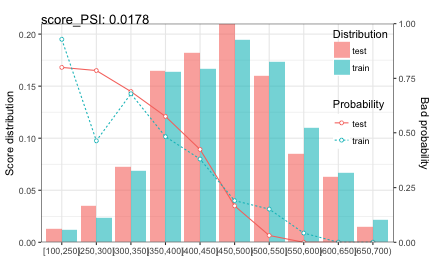
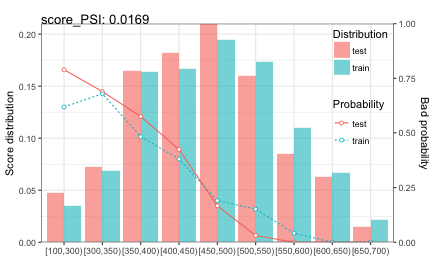
slide_sc

diff --git a/slide/20171115scorecard/index.html b/slide/20171115scorecard/index.html
@@ -1052,7 +1052,7 @@ psi &lt;- perf_psi(
   label = list(
     train=train[,"creditability"], 
     test =test[,"creditability"]),
-  x_limits = c(200, 750),
+  x_limits = c(250, 750),
   x_tick_break = 50)
 
 psi$psi
@@ -1060,7 +1060,7 @@ psi$psi
 
 ```
 ##    variable    PSI
-## 1:    score 0.0178
+## 1:    score 0.0169
 ```
 ]
 
